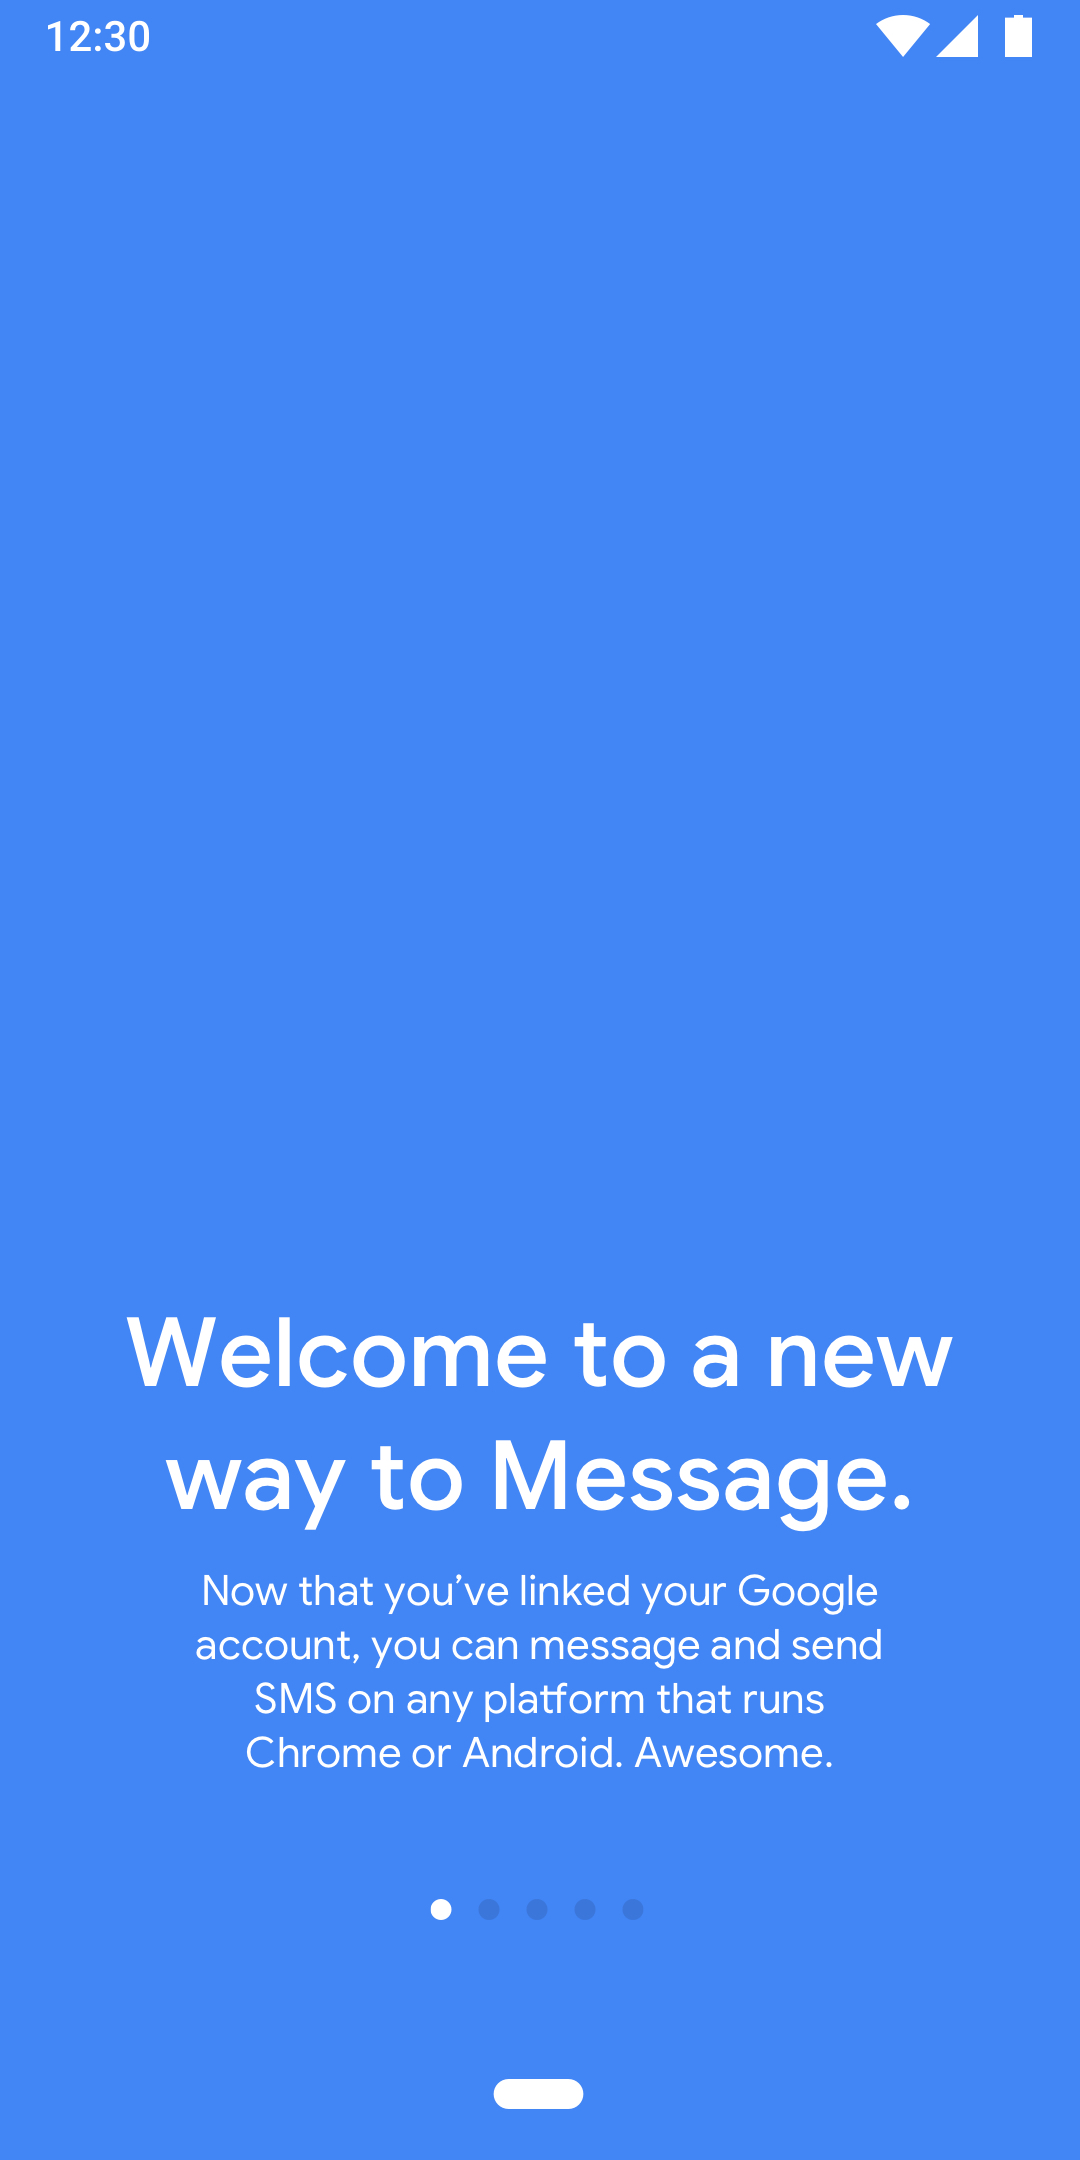
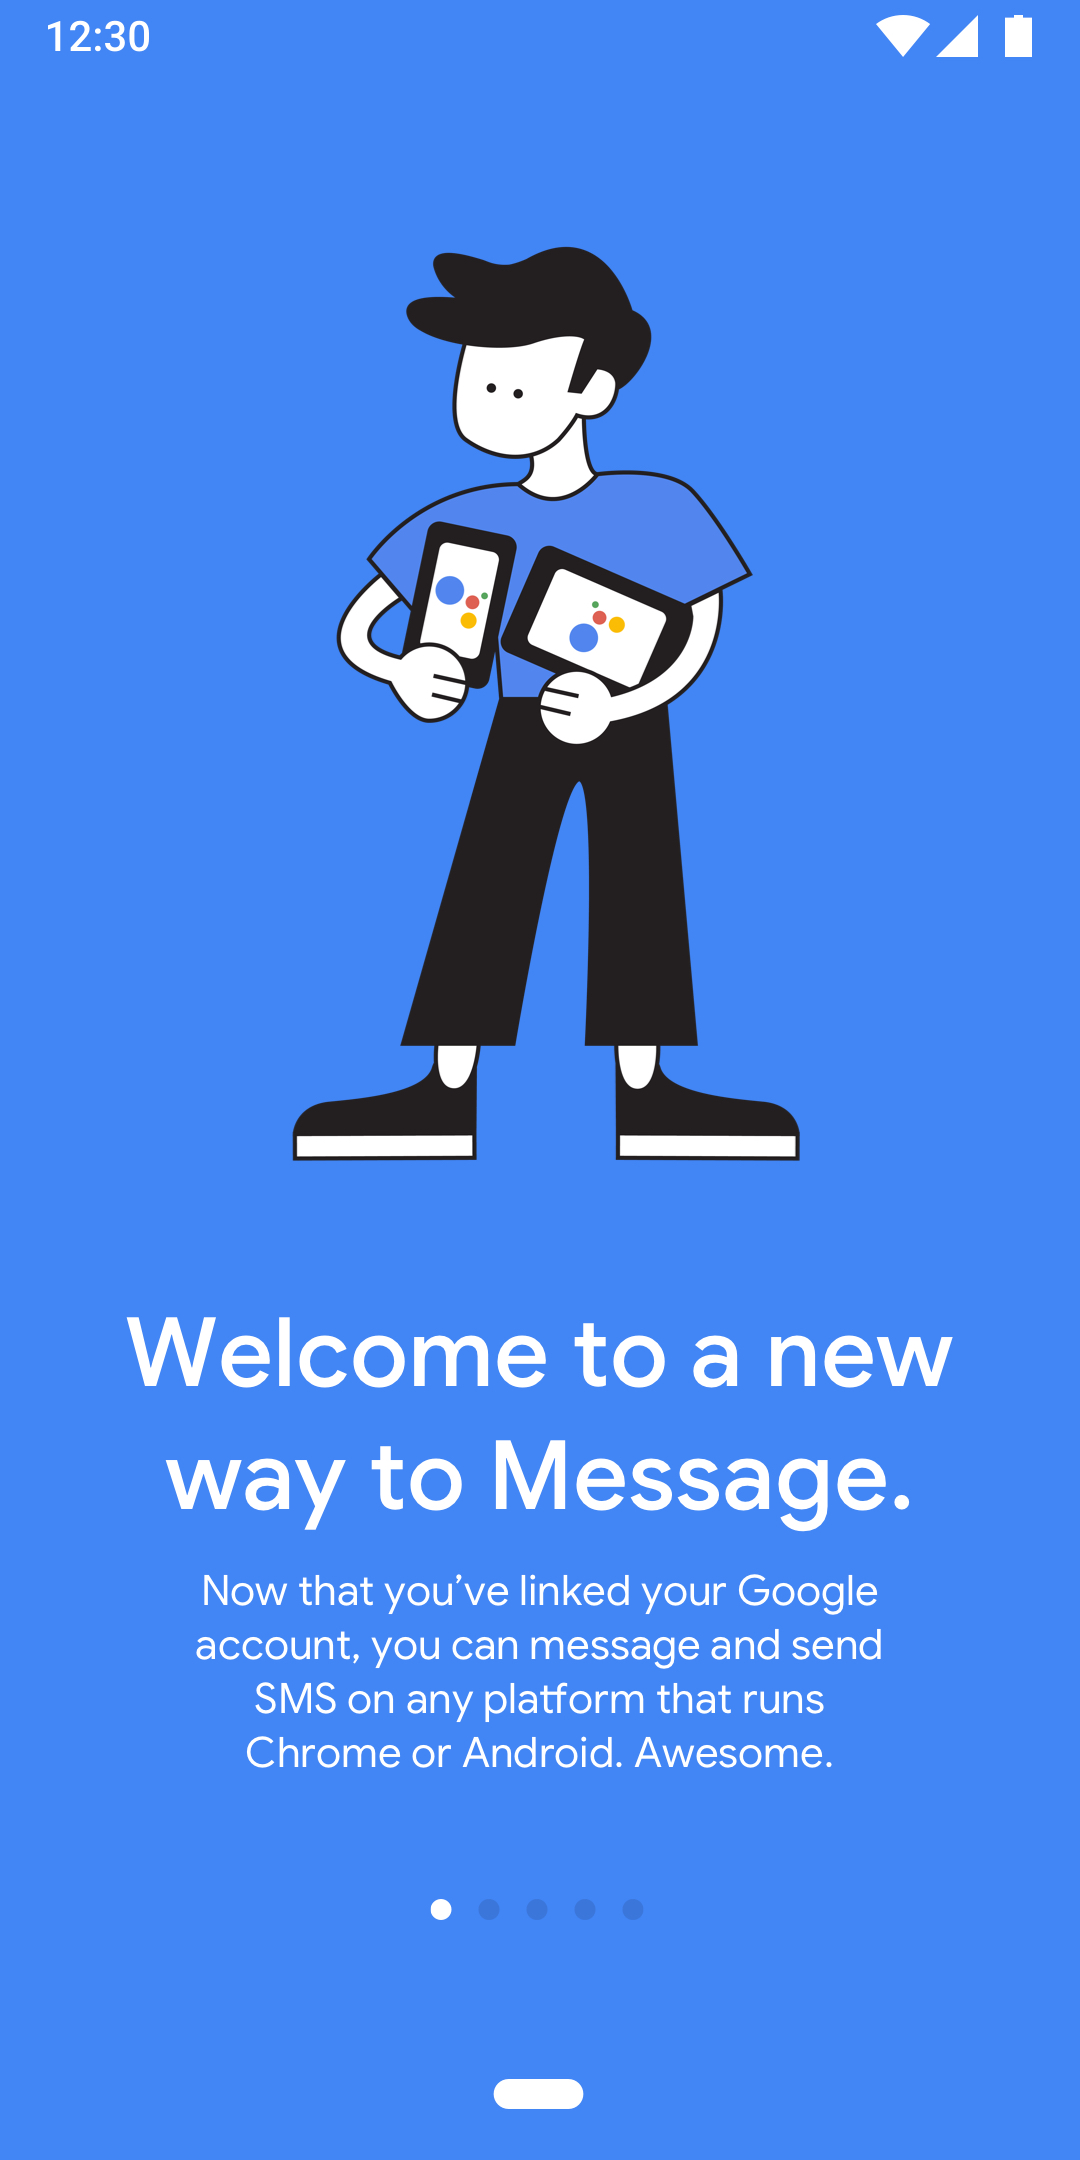
Updated onboarding

Changed region(s): [[0.275, 0.0931, 0.7333, 0.5583]]

diff --git a/projectPages/dopeThing.html b/projectPages/dopeThing.html
@@ -107,7 +107,7 @@
             <img src="/projectImages/dope/mdpi/mobile/messaging01/06.jpg" class="contentImg01" onclick="window.open('/projectImages/dope/mdpi/mobile/messaging01/06.jpg', '_blank');">
         </div>
         
-        <p class="projectDesc01">some features might be slighter harder for a user to understand or naturally discover -- these will be explained concisely within the onboarding process. pinning will be explained fluidly after a small period of use. (onboarding illustrations in progress)</p>
+        <p class="projectDesc01">some features might be slighter harder for a user to understand or naturally discover -- these will be explained concisely within the onboarding process. pinning will be explained fluidly after a small period of use. (onboarding illustrations done by the talented jooyoung park)</p>
         <div class="imageGrid">
             <img src="/projectImages/dope/mdpi/onboarding01.jpg" class="contentImg01" onclick="window.open('/projectImages/dope/mdpi/onboarding01.jpg', '_blank');">
             <img src="/projectImages/dope/mdpi/onboarding02.jpg" class="contentImg01" onclick="window.open('/projectImages/dope/mdpi/onboarding02.jpg', '_blank');">
